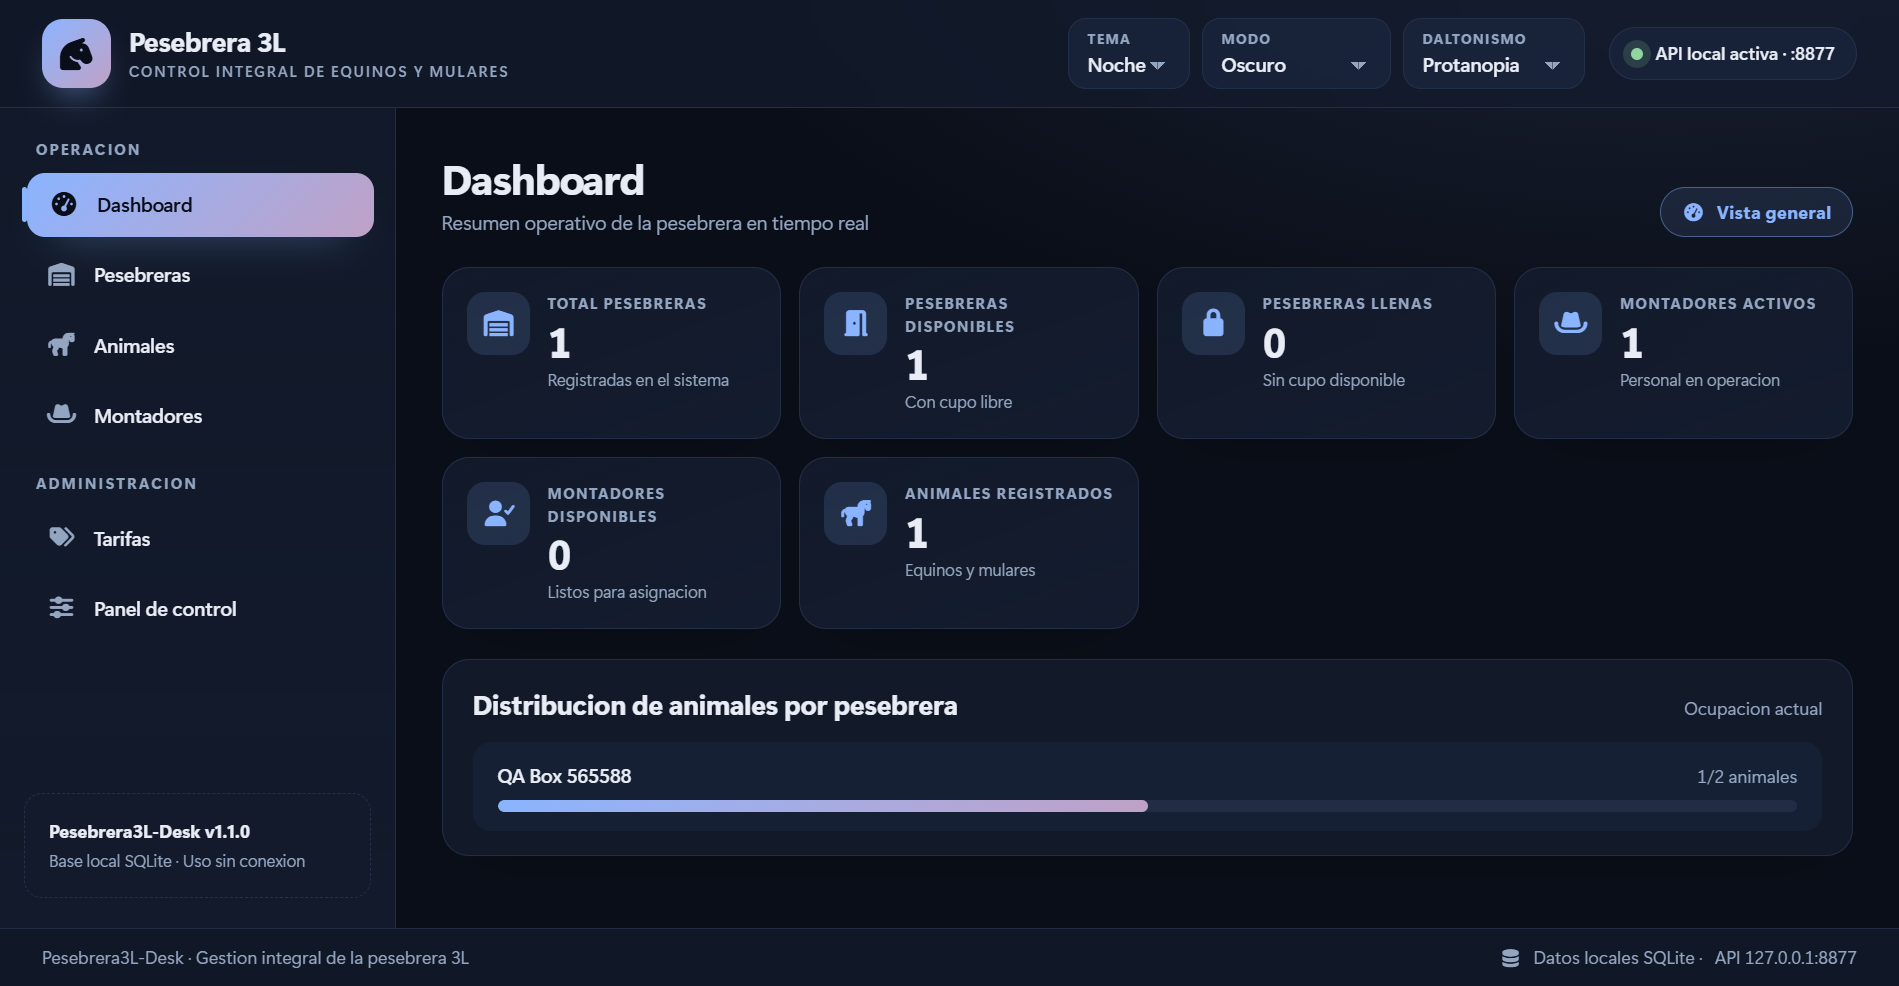
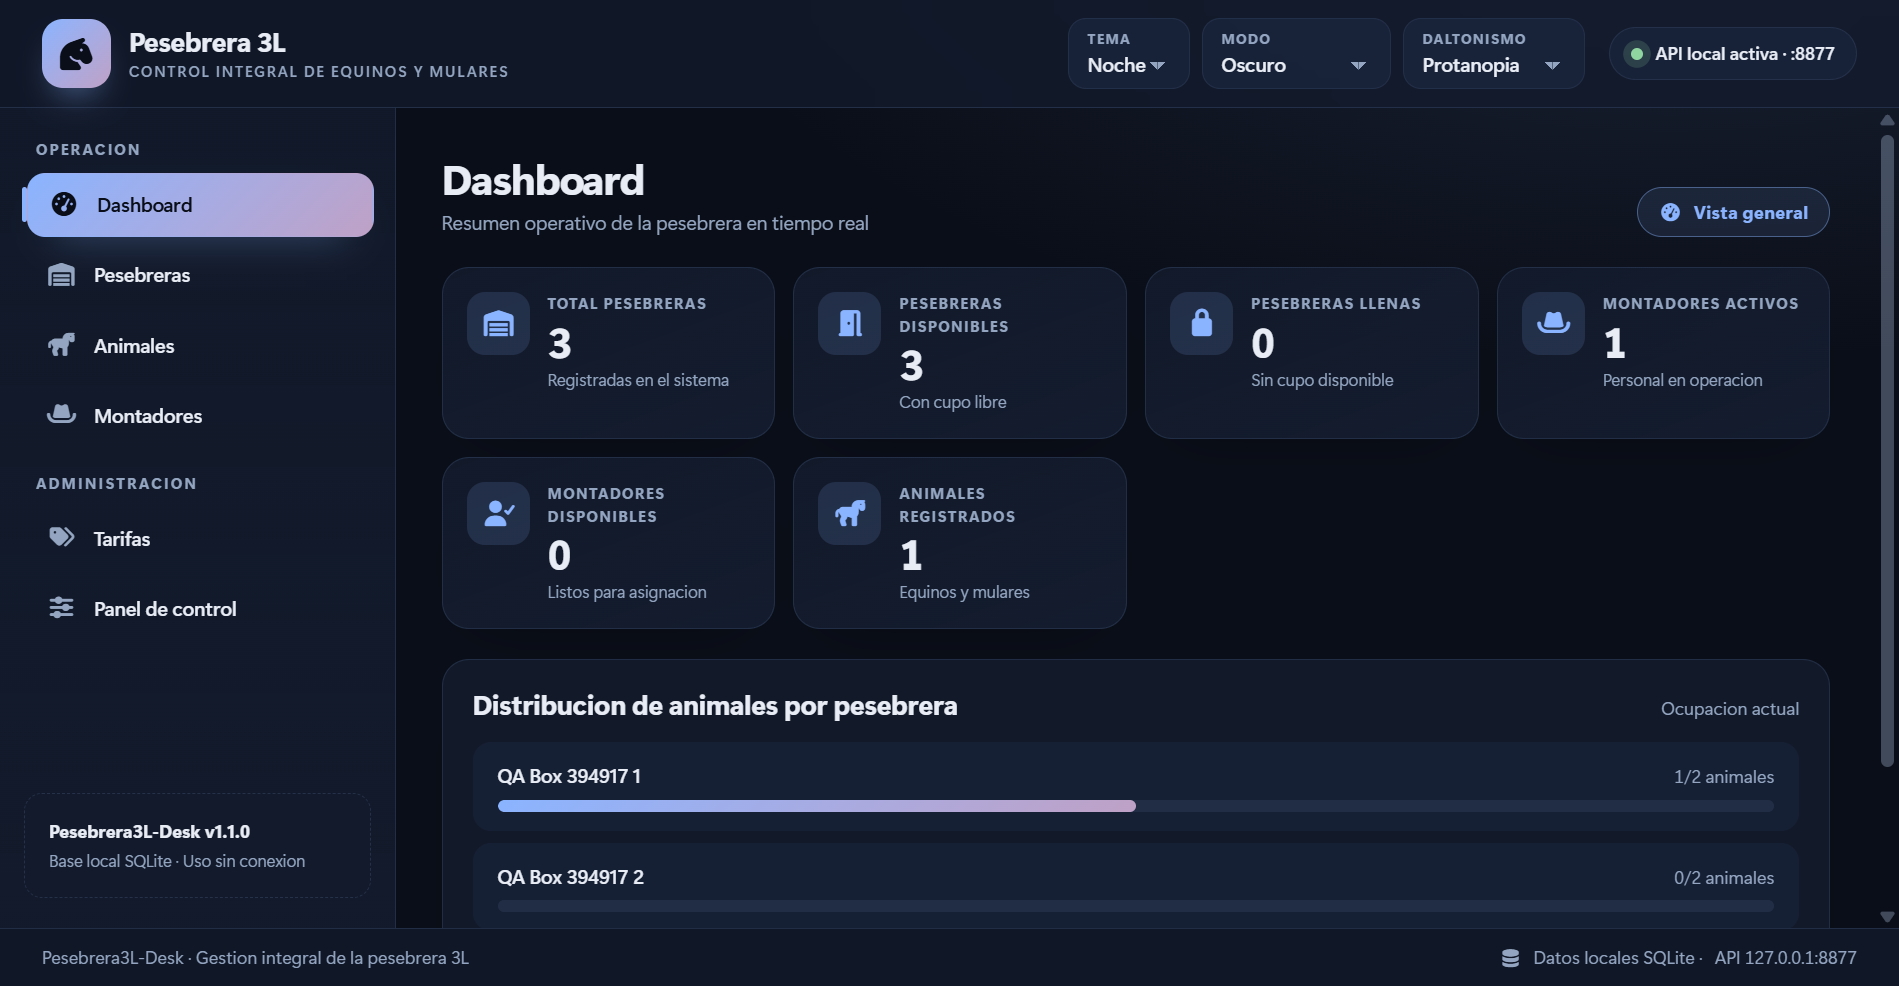
Fase 10D: QA E2E de altas por lote, disponibilidad y eliminaciones

diff --git a/docs/qa/fase-10-qa.md b/docs/qa/fase-10-qa.md
@@ -1,0 +1,53 @@
+# QA Fase 10 - Altas por lote, eliminaciones y disponibilidad de montadores
+
+Fecha: 2026-11-12
+
+## Alcance verificado
+
+- Alta de pesebreras por cantidad (1-100) con nombres automaticos "Nombre 1..N".
+- Rollback completo y respuesta 409 cuando un nombre generado ya existe.
+- Eliminacion de animales desde la tabla.
+- Eliminacion de pesebreras con desasignacion de animales (`pesebrera_id = NULL`, estado `disponible`).
+- Eliminacion de montadores con desasignacion de animales (`montador_id = NULL`).
+- Seleccion de disponibilidad del montador al asignarlo a un animal.
+- Tabla de animales mostrando nombres de pesebrera y montador.
+
+## Pruebas automatizadas
+
+| Suite | Comando | Resultado |
+| --- | --- | --- |
+| Backend | `python -m pytest backend/tests -q` | 30 passed |
+| Frontend | `npm test` | 30 passed |
+| E2E Electron | `npm run test:e2e` | Aprobada |
+
+Casos nuevos de backend:
+
+- `test_crear_pesebreras_por_cantidad` (lote de 20).
+- `test_cantidad_fuera_de_rango_es_rechazada` (422 con cantidad 101).
+- `test_lote_con_duplicados_no_deja_registros_parciales` (409 sin residuos).
+- `test_eliminar_pesebrera_desasigna_animales` y 404 en pesebrera inexistente.
+- `test_eliminar_montador_desasigna_animales` y 404 en montador inexistente.
+- `test_marcar_montador_no_disponible_al_asignar`.
+- `test_cambiar_disponibilidad_al_actualizar_animal`.
+- `test_listar_animales_incluye_nombres`.
+
+Flujo E2E cubierto:
+
+1. Creacion de un lote de 3 pesebreras desde la UI.
+2. Registro de montador y animal asignado con disponibilidad "No disponible".
+3. Verificacion de nombres de pesebrera/montador en la tabla de animales.
+4. Verificacion del estado "No" del montador en su tabla.
+5. Eliminacion con confirmacion de una pesebrera, un animal y un montador.
+
+## Evidencia visual
+
+- `docs/qa/04-altas-por-lote.png`: lote de 3 pesebreras recien creado.
+- `docs/qa/01-dashboard-pampa-light.png`: panel actualizado tras las altas.
+- `docs/qa/02-dashboard-noche-dark.png`: tema noche/dark con datos de la fase.
+- `docs/qa/03-pesebreras-pampa-light.png`: vista de pesebreras al cierre del flujo.
+
+## Limitaciones
+
+- Las eliminaciones no se pueden deshacer (la confirmacion advierte el efecto).
+- Edicion de animales/pesebreras/montadores sigue fuera de alcance (no estaba en la ERS).
+- Icono propio y firma de codigo continúan pendientes (heredado de fases previas).
